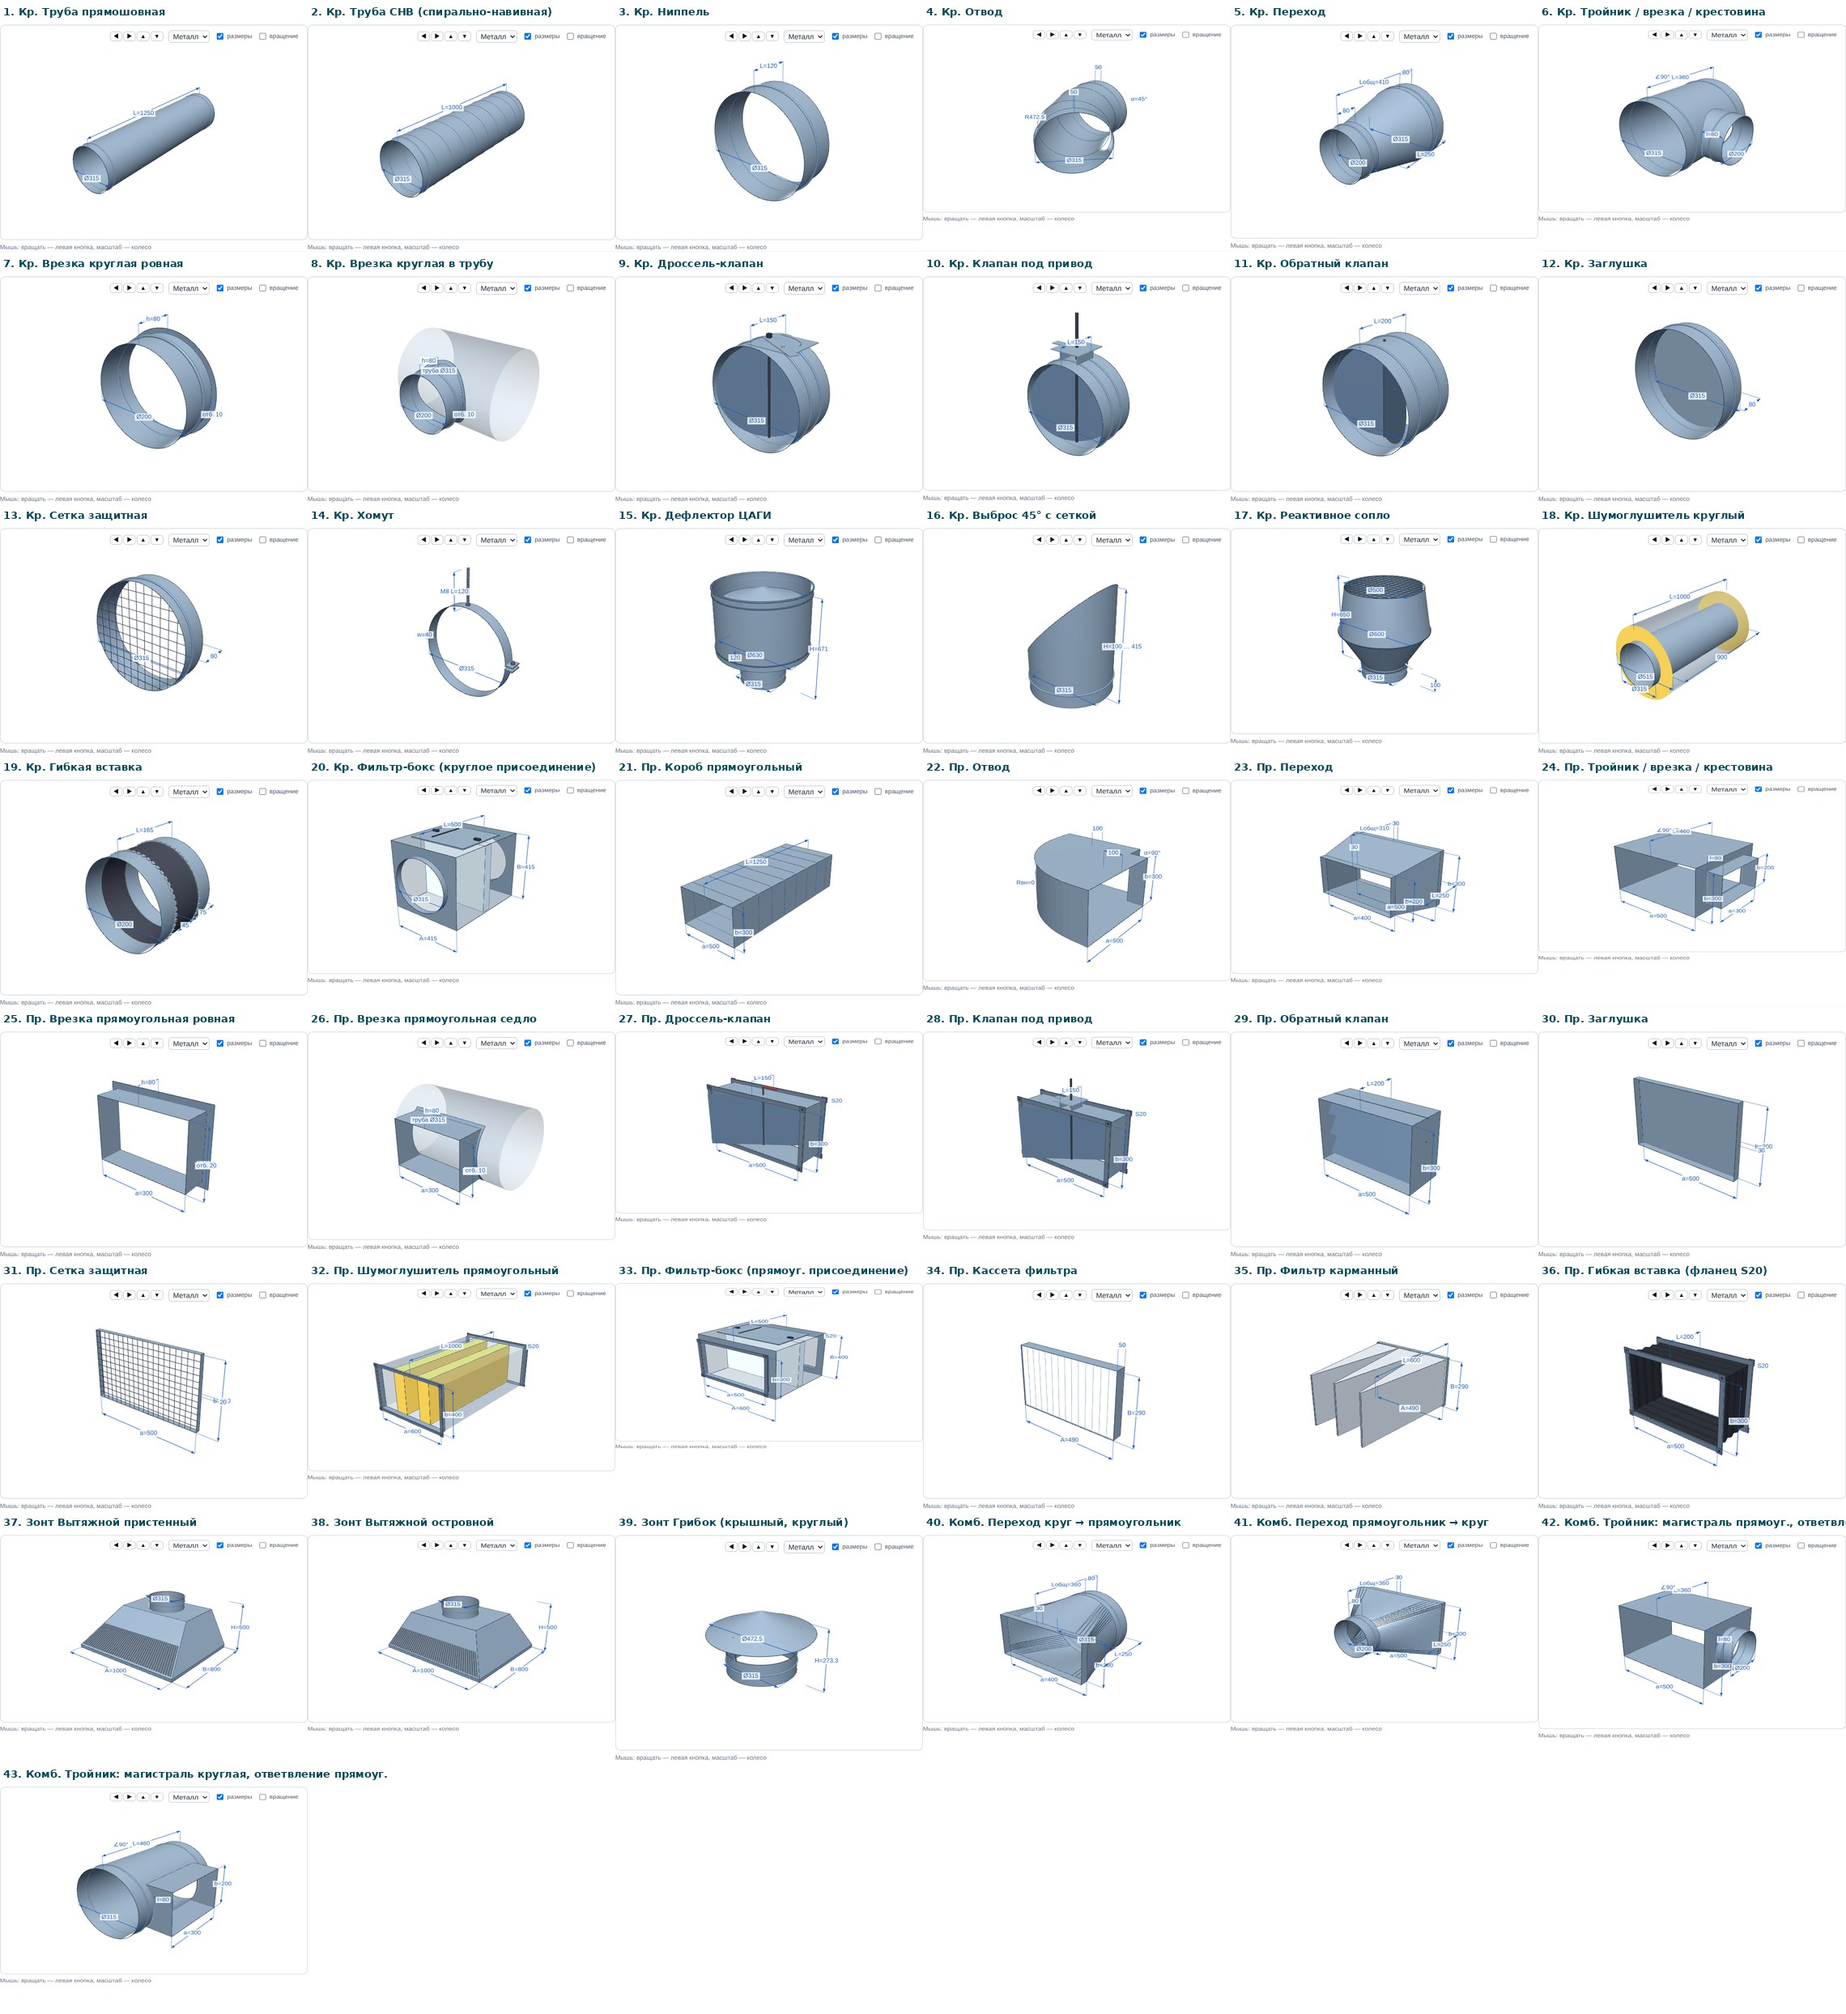
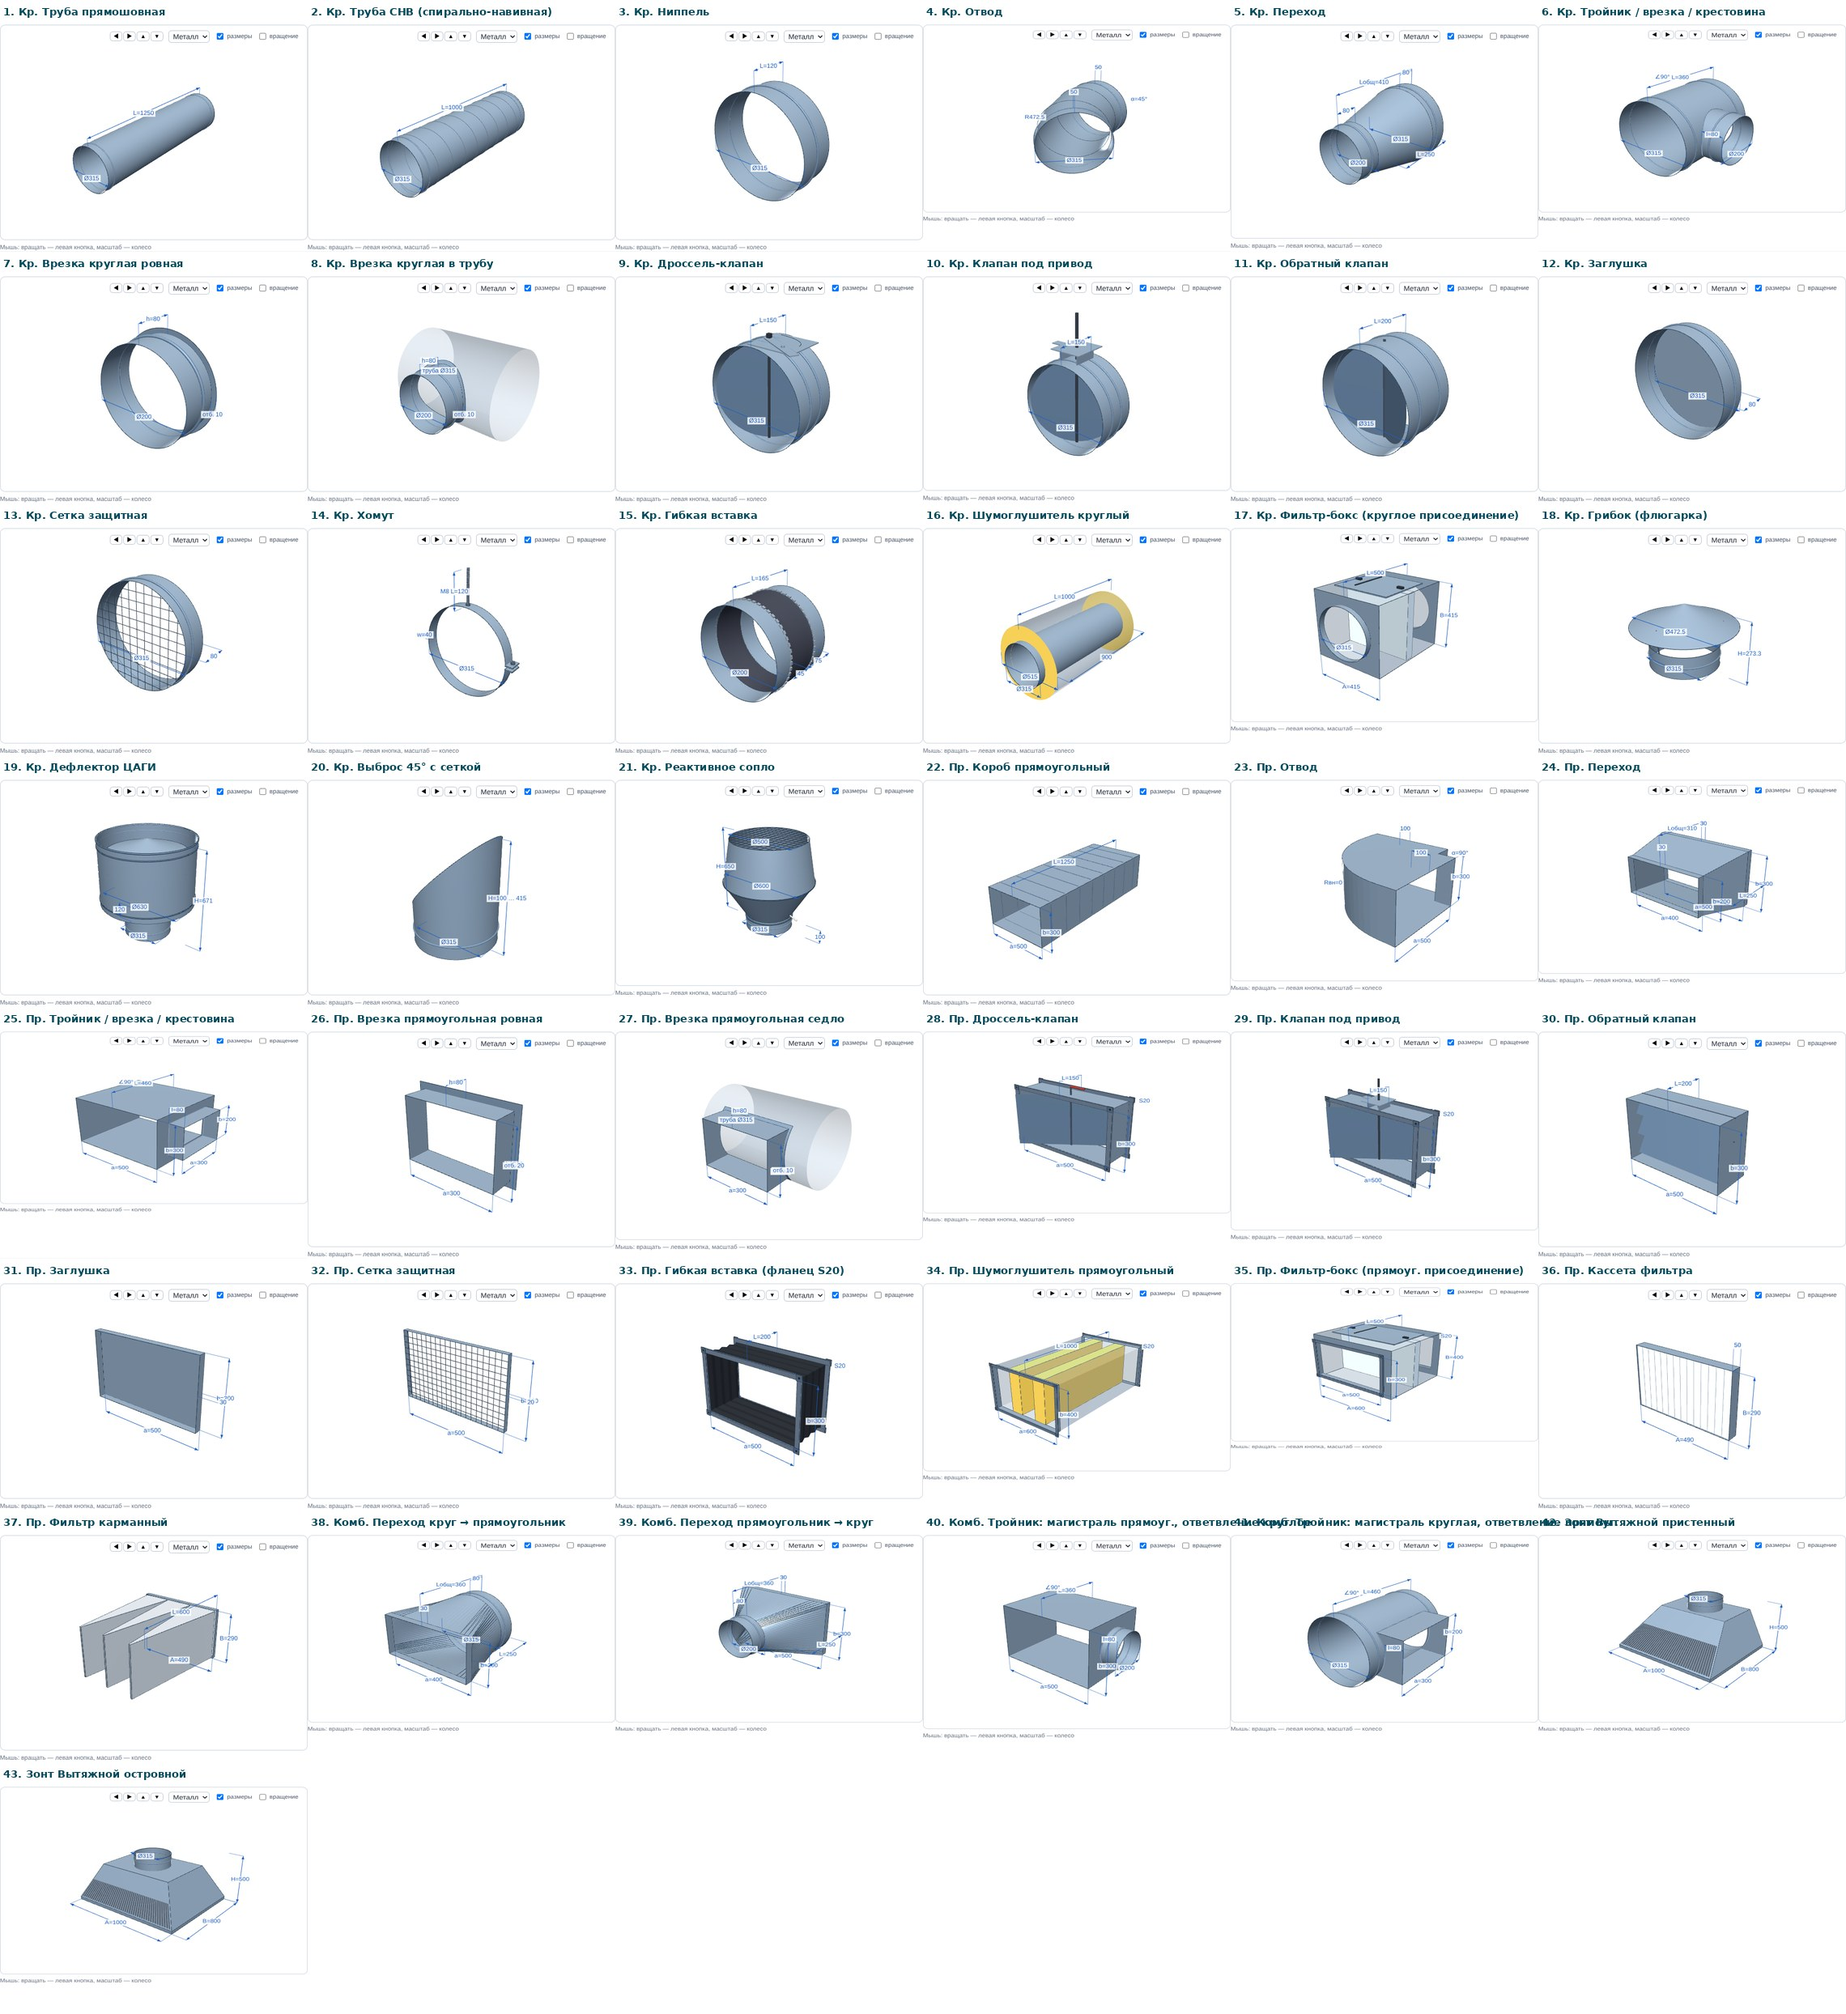
Грибок возвращён в круглое сечение; порядок изделий в разделах упорядочен
Claude-Session: https://claude.ai/code/session_01VZQ95g7KkArQtxt1wvSdji

diff --git a/js/app.js b/js/app.js
@@ -145,17 +145,23 @@ VIEW.style = 'metal';
 const cur = { type: TYPES.find(t => t.id === 'pipe'), p: defaultsOf(TYPES.find(t => t.id === 'pipe')), editId: null };
 let timer;
 
+/* порядок в каждом разделе: воздуховод → фасонные части → ответвления → клапаны → заглушки и сетки → комплектующие → шумоглушение и фильтры → выбросы */
 const GROUPS = [
   { title: 'Круглое сечение', items: [['pipe'], ['snv'], ['nipple'], ['elbow', { shape: 'round', ang: 45 }, 'Отвод'], ['transition', { s1: 'round', s2: 'round', L: 250 }, 'Переход'],
-    ['tee', { s1: 'round', s2: 'round' }, 'Тройник / врезка / крестовина'], ['tap', { shape: 'round', end: 'flat' }, 'Врезка круглая ровная'], ['tap', { shape: 'round', end: 'saddle' }, 'Врезка круглая в трубу'], ['throttle', { shape: 'round' }, 'Дроссель-клапан'], ['throttle', { shape: 'round', drive: 'act' }, 'Клапан под привод'], ['checkv', { shape: 'round' }], ['cap', { shape: 'round', h: 80 }], ['mesh', { shape: 'round', fw: 80 }],
-    ['clamp'], ['tsagi'], ['exhaust45'], ['nozzle'], ['silround'], ['flex', { shape: 'round', fg: 'none', L: 75, D: 200 }, 'Гибкая вставка'], ['filterbox', { cs: 'round' }, 'Фильтр-бокс (круглое присоединение)']] },
+    ['tee', { s1: 'round', s2: 'round' }, 'Тройник / врезка / крестовина'], ['tap', { shape: 'round', end: 'flat' }, 'Врезка круглая ровная'], ['tap', { shape: 'round', end: 'saddle' }, 'Врезка круглая в трубу'],
+    ['throttle', { shape: 'round' }, 'Дроссель-клапан'], ['throttle', { shape: 'round', drive: 'act' }, 'Клапан под привод'], ['checkv', { shape: 'round' }],
+    ['cap', { shape: 'round', h: 80 }], ['mesh', { shape: 'round', fw: 80 }], ['clamp'], ['flex', { shape: 'round', fg: 'none', L: 75, D: 200 }, 'Гибкая вставка'],
+    ['silround'], ['filterbox', { cs: 'round' }, 'Фильтр-бокс (круглое присоединение)'],
+    ['mushroom'], ['tsagi'], ['exhaust45'], ['nozzle']] },
   { title: 'Прямоугольное сечение', items: [['box'], ['elbow', { shape: 'rect', ends: 100, ang: 90, ri: 0 }, 'Отвод'], ['transition', { s1: 'rect', s2: 'rect', L: 250 }, 'Переход'],
-    ['tee', { s1: 'rect', s2: 'rect' }, 'Тройник / врезка / крестовина'], ['tap', { shape: 'rect', end: 'flat', ob: 20 }, 'Врезка прямоугольная ровная'], ['tap', { shape: 'rect', end: 'saddle' }, 'Врезка прямоугольная седло'], ['throttle', { shape: 'rect', fg: 'S20' }, 'Дроссель-клапан'], ['throttle', { shape: 'rect', fg: 'S20', drive: 'act' }, 'Клапан под привод'], ['checkv', { shape: 'rect' }], ['cap', { shape: 'rect' }], ['mesh', { shape: 'rect' }],
-    ['silrect', { fg: 'S20' }, 'Шумоглушитель прямоугольный'], ['filterbox', { cs: 'rect', fg: 'S20' }, 'Фильтр-бокс (прямоуг. присоединение)'], ['cassette'], ['pocketf'], ['flex', { shape: 'rect' }, 'Гибкая вставка (фланец S20)']] },
-  { title: 'Зонты', items: [['hood', { kind: 'wall' }, 'Вытяжной пристенный'], ['hood', { kind: 'island' }, 'Вытяжной островной'], ['mushroom', {}, 'Грибок (крышный, круглый)']] },
+    ['tee', { s1: 'rect', s2: 'rect' }, 'Тройник / врезка / крестовина'], ['tap', { shape: 'rect', end: 'flat', ob: 20 }, 'Врезка прямоугольная ровная'], ['tap', { shape: 'rect', end: 'saddle' }, 'Врезка прямоугольная седло'],
+    ['throttle', { shape: 'rect', fg: 'S20' }, 'Дроссель-клапан'], ['throttle', { shape: 'rect', fg: 'S20', drive: 'act' }, 'Клапан под привод'], ['checkv', { shape: 'rect' }],
+    ['cap', { shape: 'rect' }], ['mesh', { shape: 'rect' }], ['flex', { shape: 'rect' }, 'Гибкая вставка (фланец S20)'],
+    ['silrect', { fg: 'S20' }, 'Шумоглушитель прямоугольный'], ['filterbox', { cs: 'rect', fg: 'S20' }, 'Фильтр-бокс (прямоуг. присоединение)'], ['cassette'], ['pocketf']] },
   { title: 'Комбинированные: круг и прямоугольник', items: [['transition', { s1: 'round', s2: 'rect', L: 250 }, 'Переход круг → прямоугольник'],
     ['transition', { s1: 'rect', s2: 'round', L: 250 }, 'Переход прямоугольник → круг'], ['tee', { s1: 'rect', s2: 'round' }, 'Тройник: магистраль прямоуг., ответвление круглое'],
     ['tee', { s1: 'round', s2: 'rect' }, 'Тройник: магистраль круглая, ответвление прямоуг.']] },
+  { title: 'Зонты', items: [['hood', { kind: 'wall' }, 'Вытяжной пристенный'], ['hood', { kind: 'island' }, 'Вытяжной островной']] },
 ];
 const ENTRIES = []; GROUPS.forEach((g, gi) => g.items.forEach(([id, preset, label]) => ENTRIES.push({ gi, id, preset: preset || {}, label: label || TYPES.find(t => t.id === id).name })));
 cur.entry = 0; cur.lock = ['shape', 's1', 's2', 'cs', 'end', 'drive', 'kind'].filter(k => k in ENTRIES[0].preset);
